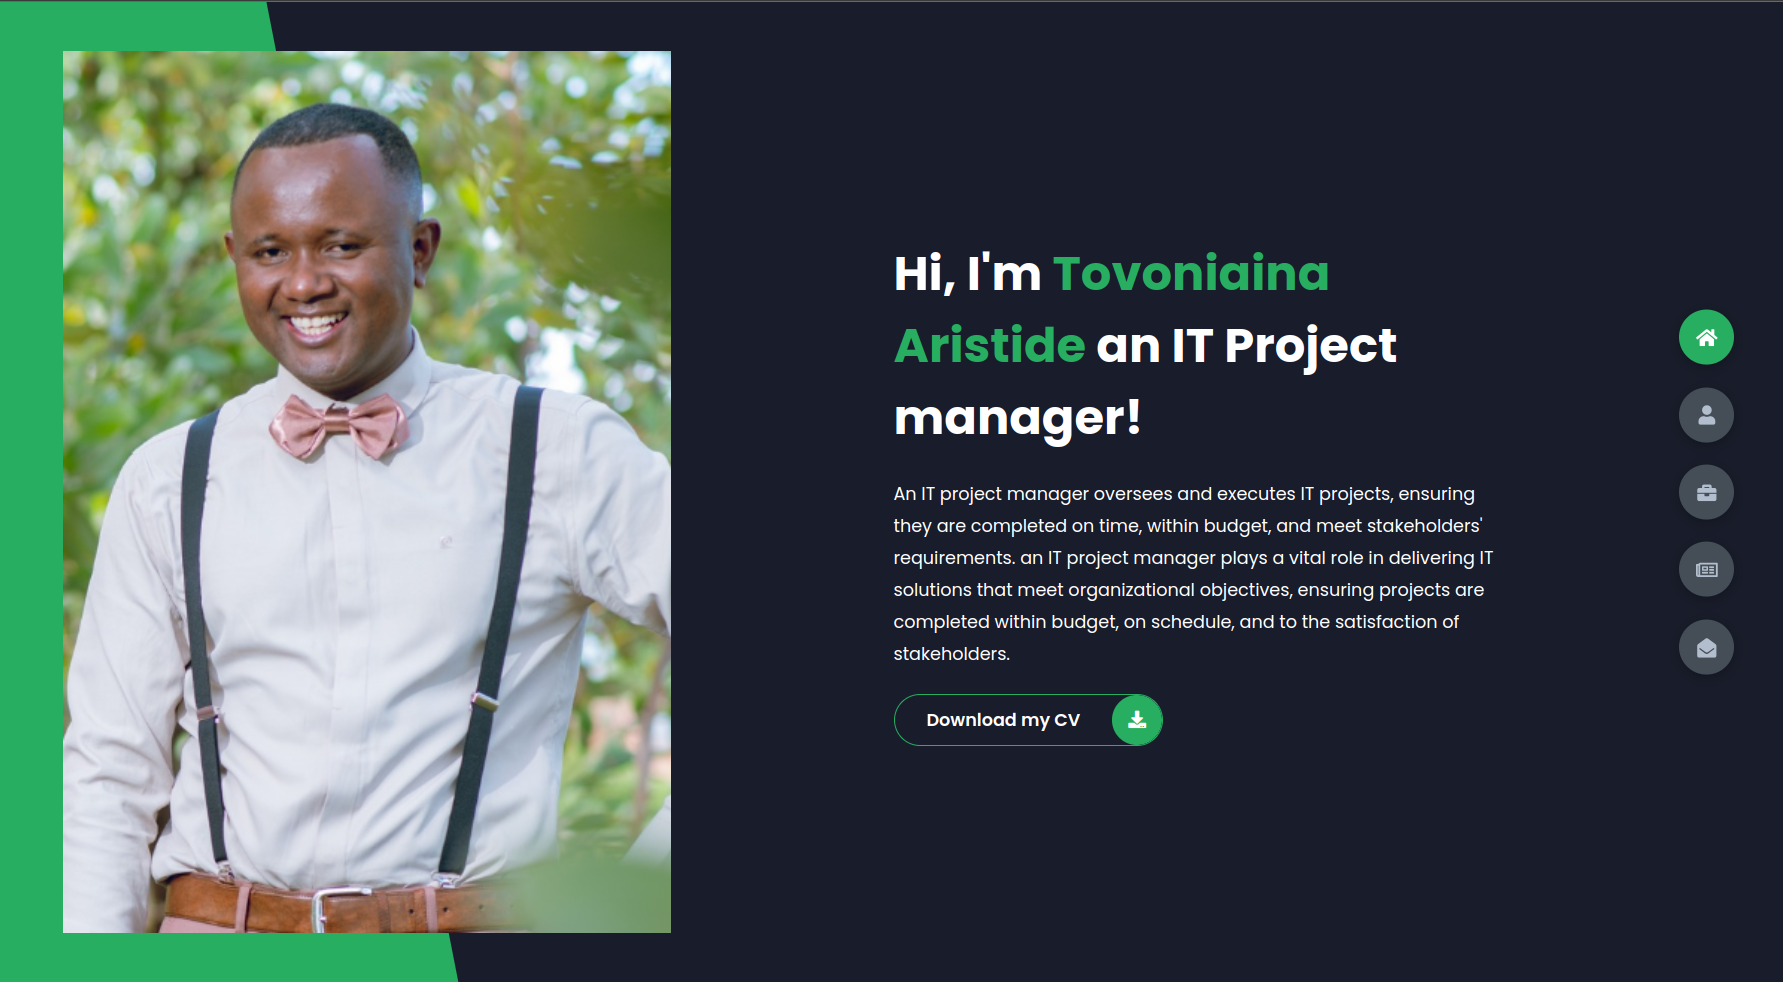
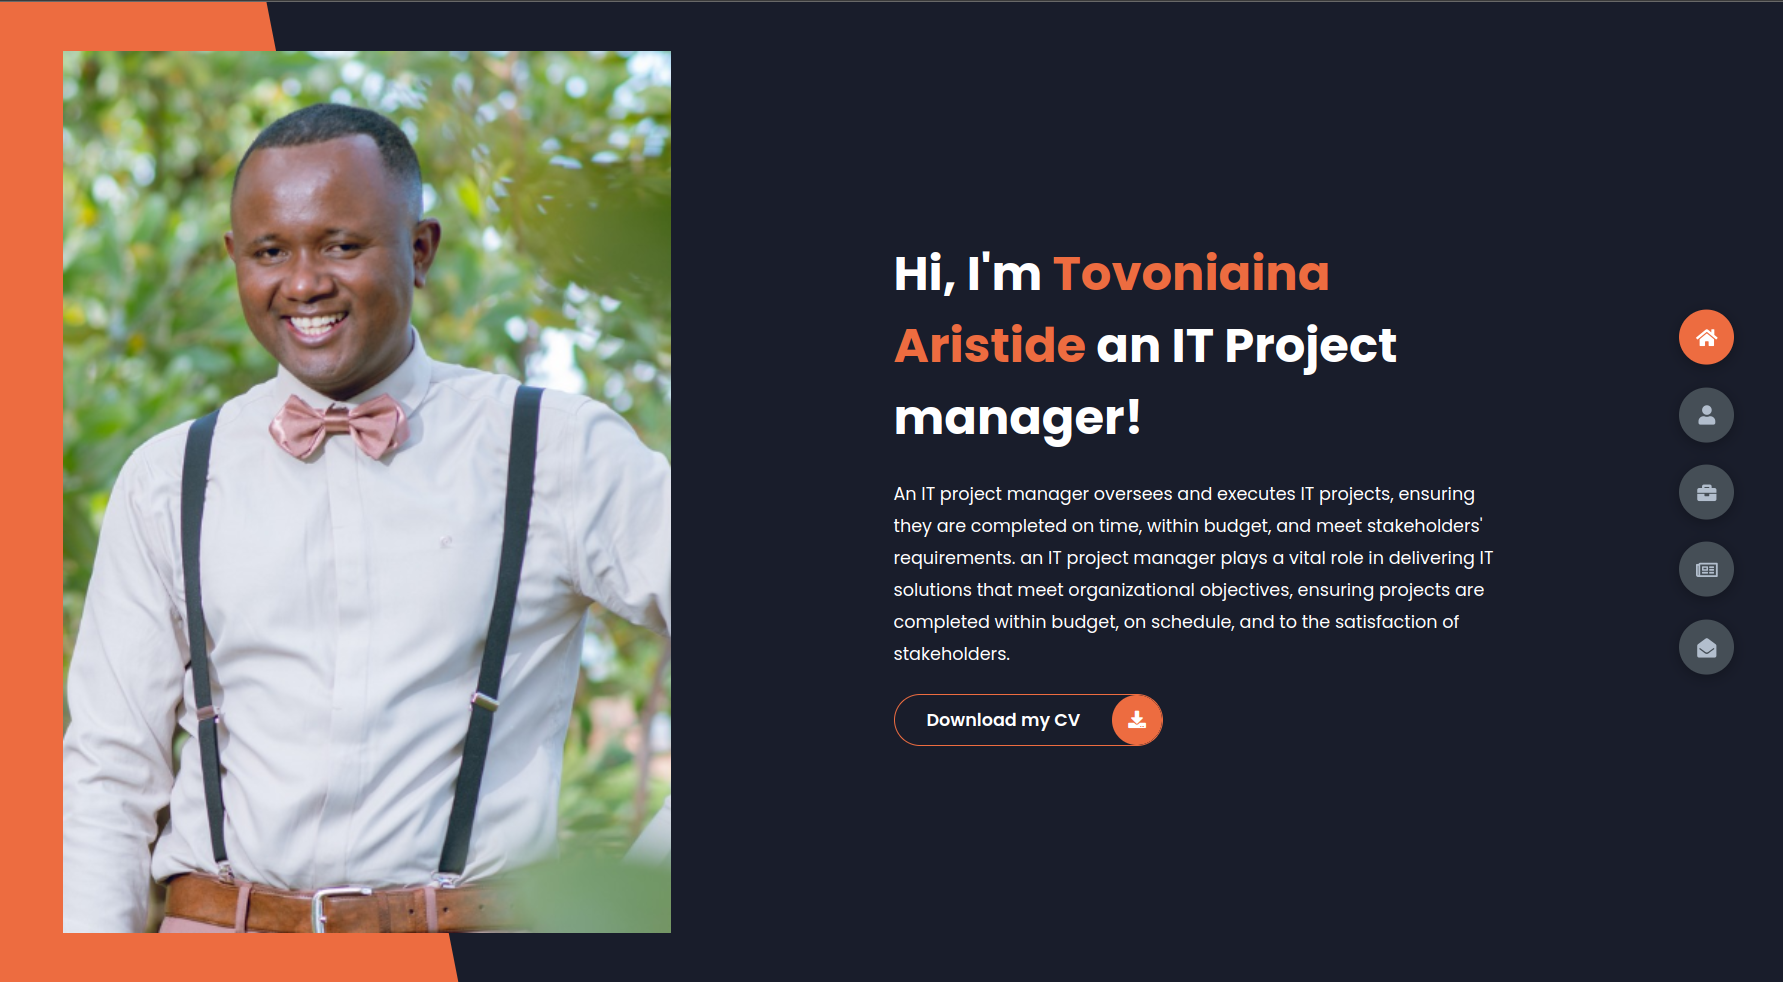
update images + update md

diff --git a/index.html b/index.html
@@ -360,7 +360,7 @@
                 </div>
                 <div class="blogs">
                     <div class="blog">
-                        <img src="img/port6.jpg" alt="">
+                        <img src="img/stakeholder.jpg" alt="">
                         <div class="blog-text">
                             <h4>
                                 Effective Stakeholder Communication in IT Project Management
@@ -408,7 +408,7 @@
                         </div>
                     </div>
                     <div class="blog">
-                        <img src="img/port1.jpg" alt="">
+                        <img src="img/quality.jpg" alt="">
                         <div class="blog-text">
                             <h4>
                                 Ensuring Quality Assurance in IT Project Delivery
@@ -420,7 +420,7 @@
                         </div>
                     </div>
                     <div class="blog">
-                        <img src="img/port3.jpg" alt="">
+                        <img src="img/resource.jpg" alt="">
                         <div class="blog-text">
                             <h4>
                                 Effective Resource Management for IT Project Success

diff --git a/styles/styles.css b/styles/styles.css
@@ -7,7 +7,7 @@
 
 :root {
   --color-primary: #191d2b;
-  --color-secondary: #27AE60;
+  --color-secondary: #ed6c40;
   --color-white: #FFFFFF;
   --color-black: #000;
   --color-grey0: #f8f8f8;

diff --git a/README.md b/README.md
@@ -1,19 +1,24 @@
 [![Review Assignment Due Date](https://classroom.github.com/assets/deadline-readme-button-24ddc0f5d75046c5622901739e7c5dd533143b0c8e959d652212380cedb1ea36.svg)](https://classroom.github.com/a/dCrWX-DS)
 
-##List of the sections
+## List of the sections
 1. Hero page
 2. About me page
 3. Portfolio page
 4. Blogs grid page
 5. Contact me page
-##Technologies used
+## Technologies used
 1. HTML
 2. CSS
 3. Font Awesome
 4. Google font
 
-##Portfolio Netlify Link
+## Portfolio Netlify Link
 👉 **[Aristide Portfolio](https://aristide-portfolio.netlify.app/)**
 
-##Screenshot of my final work
+## Screenshot of my final work
 ![My final work](./img/finalWork.png "screenshot of my final work")
+
+## Images sources credits
+1. Bing generative AI image (DALL-E 2)
+2. Unsplash
+3. Personnal image
